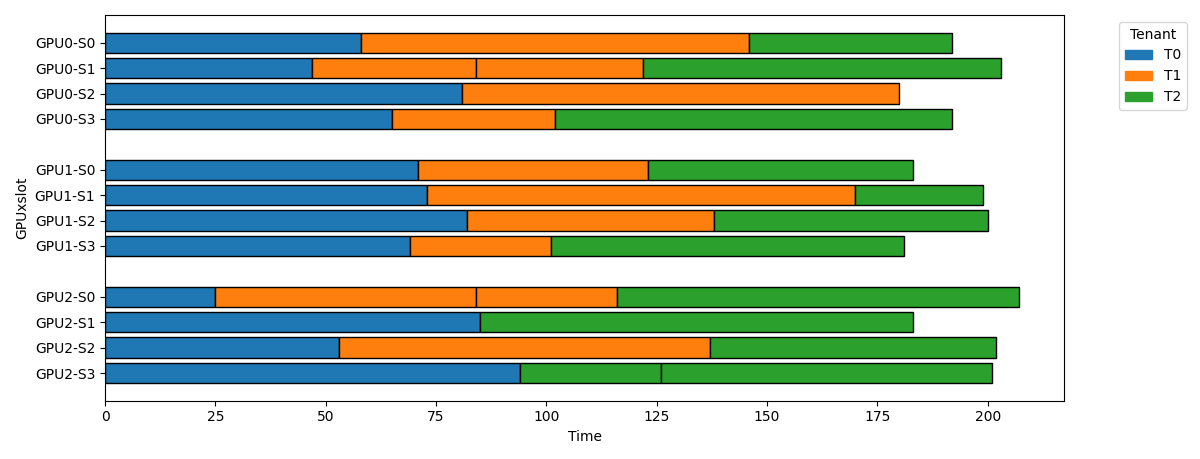
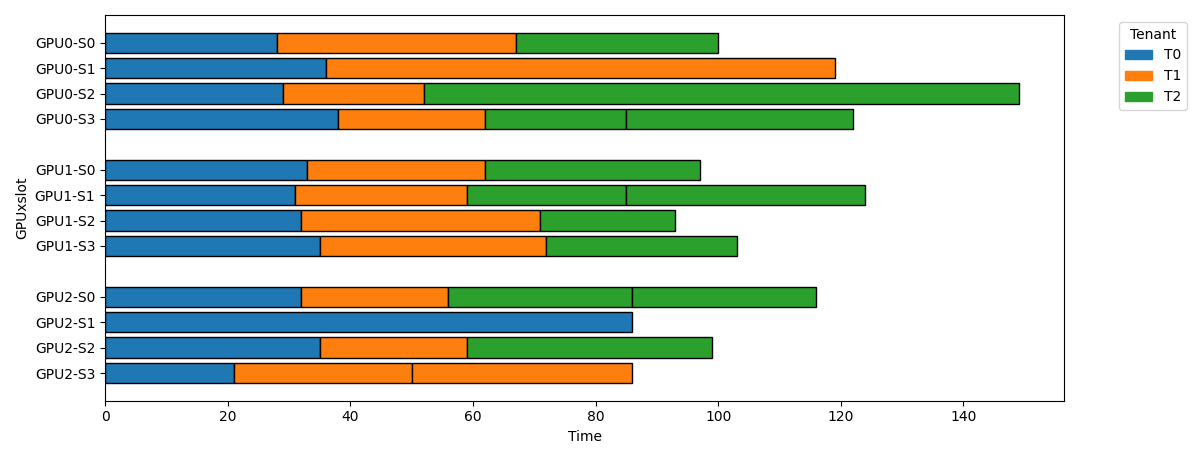
Add average finish time as objective of random-scheduler

diff --git a/simulator/simulator.py b/simulator/simulator.py
@@ -154,10 +154,15 @@ def plot_timeline(history: Dict[int,List[Dict]],
 
 if __name__ == "__main__":
     random.seed(0)
+    # tenants = {
+    #     0: sorted([random.randint(20,100) for _ in range(12)]),
+    #     1: sorted([random.randint(20,100) for _ in range(12)]),
+    #     2: sorted([random.randint(20,100) for _ in range(12)]),
+    # }
     tenants = {
-        0: sorted([random.randint(20,100) for _ in range(12)]),
-        1: sorted([random.randint(20,100) for _ in range(12)]),
-        2: sorted([random.randint(20,100) for _ in range(12)]),
+        0: sorted([random.randint(20,40) for _ in range(11)] + [random.randint(80, 100) for _ in range(1)]),
+        1: sorted([random.randint(20,40) for _ in range(11)] + [random.randint(80, 100) for _ in range(1)]),
+        2: sorted([random.randint(20,40) for _ in range(11)] + [random.randint(80, 100) for _ in range(1)]),
     }
     for t_id, req_lengths in tenants.items():
         print(t_id, req_lengths)
@@ -166,23 +171,30 @@ if __name__ == "__main__":
     lower_bound = {t_id: sum([sum(req_lengths) for req_lengths in list(tenants.values())[: i + 1]]) / (ngpus * per_gpu_max_bsz) for i, t_id in enumerate(tenants)}
     # Sequential
     best_history_and_finish = {t_id: None for t_id in tenants}
+    best_history_and_finish['avg'] = None
     best_ft = {t_id: float('inf') for t_id in tenants}
+    best_ft['avg'] = float('inf')
     sim = Simulator(tenants, ngpus=ngpus, per_gpu_max_bsz=per_gpu_max_bsz, scheduler=NaiveSequentialSelectScheduler())
     finish, history = sim.run()
     for t_id in tenants:
         if finish[t_id] < best_ft[t_id]:
             best_ft[t_id] = finish[t_id]
             best_history_and_finish[t_id] = (history, finish)
+    if sum(finish.values()) / len(tenants) < best_ft['avg']:
+        best_ft['avg'] = sum(finish.values()) / len(tenants)
+        best_history_and_finish['avg'] = (history, finish)
     print(repr(NaiveSequentialSelectScheduler))
     print(lower_bound)
     last_t_id = list(tenants.keys())[-1]
-    print(best_history_and_finish[last_t_id][1])
+    print(best_history_and_finish[last_t_id][1], best_ft['avg'])
     plot_timeline(best_history_and_finish[last_t_id][0], tenants, ngpus, per_gpu_max_bsz, 'sequential')
 
     # Random
     best_history_and_finish = {t_id: None for t_id in tenants}
+    best_history_and_finish['avg'] = None
     best_ft = {t_id: float('inf') for t_id in tenants}
-    for i in range(10000):
+    best_ft['avg'] = float('inf')
+    for i in range(100):
         random.seed(i)
         sim = Simulator(tenants, ngpus=ngpus, per_gpu_max_bsz=per_gpu_max_bsz, scheduler=RandomScheduler())
         finish, history = sim.run()
@@ -190,22 +202,30 @@ if __name__ == "__main__":
             if finish[t_id] < best_ft[t_id]:
                 best_ft[t_id] = finish[t_id]
                 best_history_and_finish[t_id] = (history, finish)
+        if sum(finish.values()) / len(tenants) < best_ft['avg']:
+            best_ft['avg'] = sum(finish.values()) / len(tenants)
+            best_history_and_finish['avg'] = (history, finish)
     print(repr(RandomScheduler))
     print(lower_bound)
-    for t_id in list(tenants.keys())[1:]: # ignore the first tenant
-        print(t_id, best_history_and_finish[t_id][1])
+    for t_id in list(tenants.keys())[1:] + ['avg']: # ignore the first tenant
+        print(t_id, best_history_and_finish[t_id][1], sum(best_history_and_finish[t_id][1].values()) / len(tenants))
         plot_timeline(best_history_and_finish[t_id][0], tenants, ngpus, per_gpu_max_bsz, f'random_for_tenant_{t_id}')
 
     # Longest First
     best_history_and_finish = {t_id: None for t_id in tenants}
+    best_history_and_finish['avg'] = None
     best_ft = {t_id: float('inf') for t_id in tenants}
+    best_ft['avg'] = float('inf')
     sim = Simulator(tenants, ngpus=ngpus, per_gpu_max_bsz=per_gpu_max_bsz, scheduler=LongestFirstScheduler())
     finish, history = sim.run()
     for t_id in tenants:
         if finish[t_id] < best_ft[t_id]:
             best_ft[t_id] = finish[t_id]
             best_history_and_finish[t_id] = (history, finish)
+    if sum(finish.values()) / len(tenants) < best_ft['avg']:
+        best_ft['avg'] = sum(finish.values()) / len(tenants)
+        best_history_and_finish['avg'] = (history, finish)
     print(repr(LongestFirstScheduler))
     print(lower_bound)
-    print(t_id, best_history_and_finish[last_t_id][1])
+    print(best_history_and_finish[last_t_id][1], best_ft['avg'])
     plot_timeline(best_history_and_finish[last_t_id][0], tenants, ngpus, per_gpu_max_bsz, 'longest_first')
